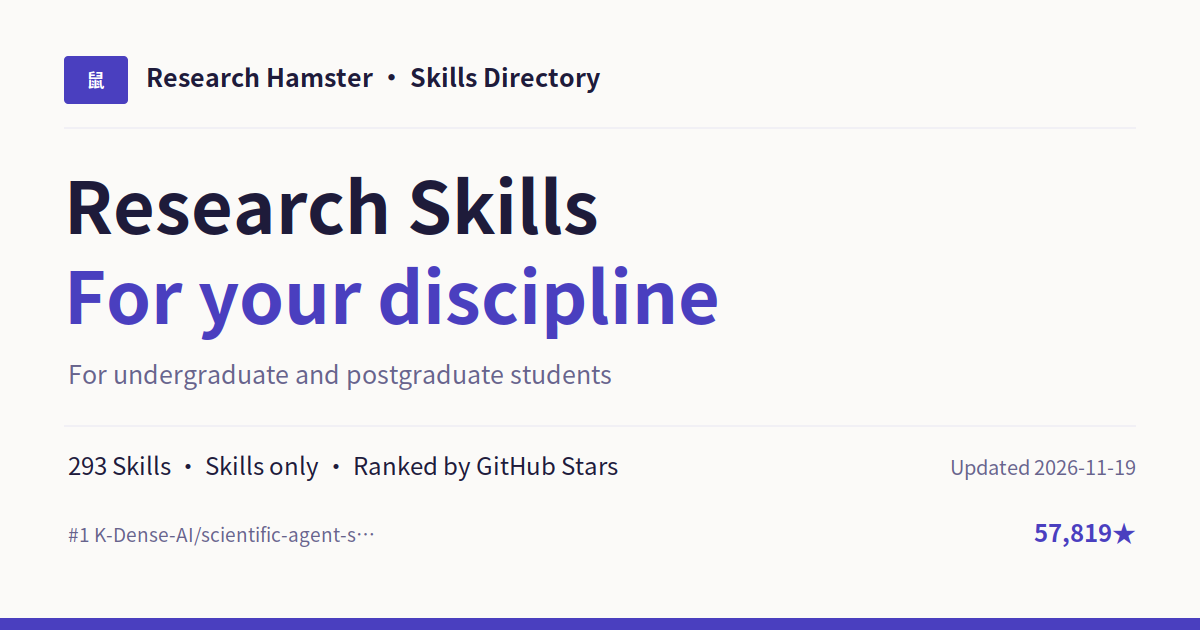
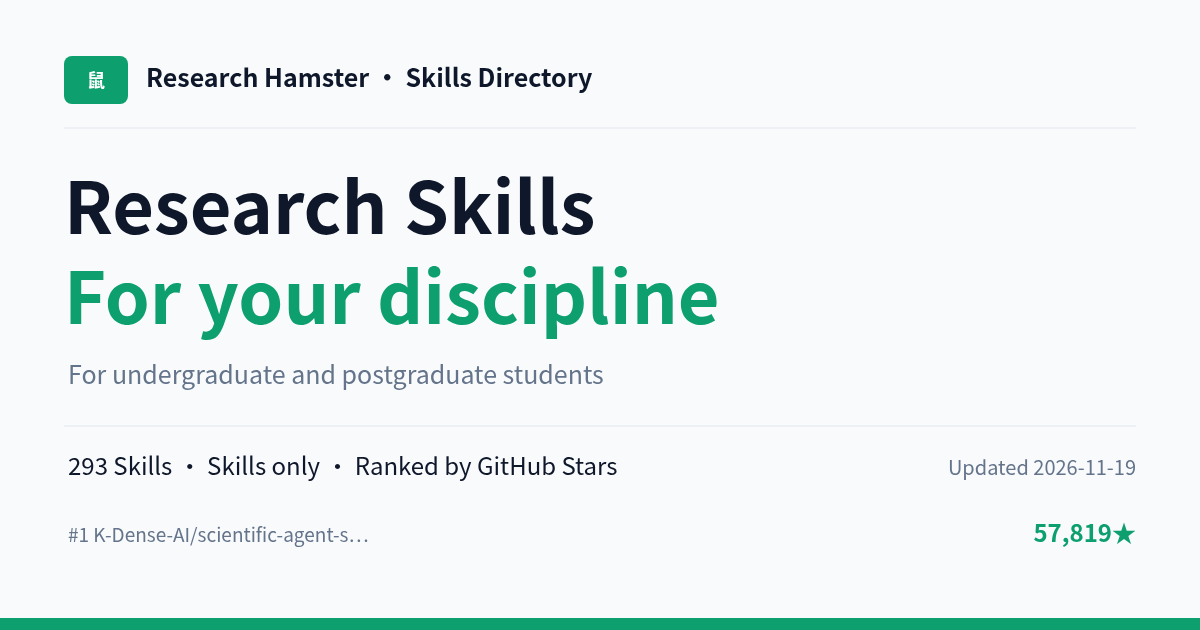
feat: update OG covers to emerald theme and sync RSS/reports branding and canonicals

diff --git a/reports/2026-07.html b/reports/2026-07.html
@@ -3,9 +3,9 @@
 <head>
 <meta charset="utf-8" />
 <meta name="viewport" content="width=device-width, initial-scale=1" />
-<title>2026-07 月度报告 · Awesome Paper Research Skills</title>
+<title>2026-07 月度报告 · 科研鼠鼠 · Skills 导航站</title>
 <link rel="stylesheet" href="../assets/styles.css" />
-<link rel="canonical" href="https://riceai88.github.io/shushu-research-skills/reports/2026-07.html" />
+<link rel="canonical" href="https://riceai985.cc/reports/2026-07.html" />
 </head>
 <body>
 <main style="max-width:960px;margin:0 auto;padding:32px 20px">

diff --git a/reports/2026-08.html b/reports/2026-08.html
@@ -3,9 +3,9 @@
 <head>
 <meta charset="utf-8" />
 <meta name="viewport" content="width=device-width, initial-scale=1" />
-<title>2026-08 月度报告 · Awesome Paper Research Skills</title>
+<title>2026-08 月度报告 · 科研鼠鼠 · Skills 导航站</title>
 <link rel="stylesheet" href="../assets/styles.css" />
-<link rel="canonical" href="https://riceai88.github.io/shushu-research-skills/reports/2026-08.html" />
+<link rel="canonical" href="https://riceai985.cc/reports/2026-08.html" />
 </head>
 <body>
 <main style="max-width:960px;margin:0 auto;padding:32px 20px">

diff --git a/reports/2026-09.html b/reports/2026-09.html
@@ -3,9 +3,9 @@
 <head>
 <meta charset="utf-8" />
 <meta name="viewport" content="width=device-width, initial-scale=1" />
-<title>2026-09 月度报告 · Awesome Paper Research Skills</title>
+<title>2026-09 月度报告 · 科研鼠鼠 · Skills 导航站</title>
 <link rel="stylesheet" href="../assets/styles.css" />
-<link rel="canonical" href="https://riceai88.github.io/shushu-research-skills/reports/2026-09.html" />
+<link rel="canonical" href="https://riceai985.cc/reports/2026-09.html" />
 </head>
 <body>
 <main style="max-width:960px;margin:0 auto;padding:32px 20px">

diff --git a/reports/2026-10.html b/reports/2026-10.html
@@ -3,9 +3,9 @@
 <head>
 <meta charset="utf-8" />
 <meta name="viewport" content="width=device-width, initial-scale=1" />
-<title>2026-10 月度报告 · Awesome Paper Research Skills</title>
+<title>2026-10 月度报告 · 科研鼠鼠 · Skills 导航站</title>
 <link rel="stylesheet" href="../assets/styles.css" />
-<link rel="canonical" href="https://riceai88.github.io/shushu-research-skills/reports/2026-10.html" />
+<link rel="canonical" href="https://riceai985.cc/reports/2026-10.html" />
 </head>
 <body>
 <main style="max-width:960px;margin:0 auto;padding:32px 20px">

diff --git a/reports/2026-11.html b/reports/2026-11.html
@@ -3,7 +3,7 @@
 <head>
 <meta charset="utf-8" />
 <meta name="viewport" content="width=device-width, initial-scale=1" />
-<title>2026-11 月度报告 · Awesome Paper Research Skills</title>
+<title>2026-11 月度报告 · 科研鼠鼠 · Skills 导航站</title>
 <link rel="stylesheet" href="../assets/styles.css" />
 <link rel="canonical" href="https://riceai985.cc/reports/2026-11.html" />
 </head>

diff --git a/reports/index.html b/reports/index.html
@@ -3,7 +3,7 @@
 <head>
 <meta charset="utf-8" />
 <meta name="viewport" content="width=device-width, initial-scale=1" />
-<title>月度报告 · Awesome Paper Research Skills</title>
+<title>月度报告 · 科研鼠鼠 · Skills 导航站</title>
 <link rel="stylesheet" href="../assets/styles.css" />
 <link rel="canonical" href="https://riceai985.cc/reports/" />
 </head>

diff --git a/scripts/update_rankings.py b/scripts/update_rankings.py
@@ -1544,7 +1544,7 @@ def render_month_report(
 <head>
 <meta charset="utf-8" />
 <meta name="viewport" content="width=device-width, initial-scale=1" />
-<title>{month} 月度报告 · Awesome Paper Research Skills</title>
+<title>{month} 月度报告 · 科研鼠鼠 · Skills 导航站</title>
 <link rel="stylesheet" href="../assets/styles.css" />
 <link rel="canonical" href="{SITE_URL}/reports/{month}.html" />
 </head>
@@ -1609,7 +1609,7 @@ def build_monthly_reports(history: dict[str, dict[str, dict[str, Any]]]) -> None
 <head>
 <meta charset="utf-8" />
 <meta name="viewport" content="width=device-width, initial-scale=1" />
-<title>月度报告 · Awesome Paper Research Skills</title>
+<title>月度报告 · 科研鼠鼠 · Skills 导航站</title>
 <link rel="stylesheet" href="../assets/styles.css" />
 <link rel="canonical" href="{SITE_URL}/reports/" />
 </head>
@@ -1707,7 +1707,7 @@ def render_feed(data: dict[str, Any], window_snapshot: dict[str, Any] | None = N
         '<?xml version="1.0" encoding="UTF-8"?>\n'
         '<rss version="2.0" xmlns:atom="http://www.w3.org/2005/Atom">\n'
         "  <channel>\n"
-        f"    <title>Awesome Paper Research Skills</title>\n"
+        f"    <title>科研鼠鼠 · Skills 导航站</title>\n"
         f"    <link>{SITE_URL}/</link>\n"
         "    <description>每日自动更新的学术论文与科研 Agent Skill 排行榜 · Daily ranking of academic research agent skills on GitHub</description>\n"
         f"    <language>{'zh-CN'}</language>\n"
@@ -1746,20 +1746,20 @@ def render_og_cover(data: dict[str, Any], lang: str = "zh") -> str:
     scope_label = "Skills only · Ranked by GitHub Stars" if lang == "en" else "仅统计 Skills · 按 GitHub Stars 排序"
     return f"""<?xml version="1.0" encoding="UTF-8"?>
 <svg xmlns="http://www.w3.org/2000/svg" width="1200" height="630" viewBox="0 0 1200 630">
-  <rect width="1200" height="630" fill="#FBFAF8"/>
-  <rect x="64" y="56" width="64" height="48" rx="4" fill="#4A3FBF"/>
+  <rect width="1200" height="630" fill="#F8FAFC"/>
+  <rect x="64" y="56" width="64" height="48" rx="8" fill="#0D9F6E"/>
   <text x="96" y="87" text-anchor="middle" font-family="{font}" font-size="18" font-weight="700" fill="#FFFFFF">鼠</text>
-  <text x="146" y="87" font-family="{font}" font-size="25" font-weight="600" fill="#1E1B3A">{brand}</text>
-  <line x1="64" y1="128" x2="1136" y2="128" stroke="#E7E5F2"/>
-  <text x="64" y="234" font-family="{font}" font-size="72" font-weight="700" fill="#1E1B3A">{title}</text>
-  <text x="64" y="324" font-family="{font}" font-size="72" font-weight="700" fill="#4A3FBF">{subtitle}</text>
-  <text x="68" y="384" font-family="{font}" font-size="25" fill="#67638C">{caption}</text>
-  <line x1="64" y1="426" x2="1136" y2="426" stroke="#E7E5F2"/>
-  <text x="68" y="475" font-family="{font}" font-size="24" fill="#1E1B3A">{count_label} · {scope_label}</text>
-  <text x="1136" y="475" text-anchor="end" font-family="{font}" font-size="20" fill="#67638C">Updated {generated}</text>
-  <text x="68" y="542" font-family="{font}" font-size="19" fill="#67638C">#1 {xml_escape(top_name)}</text>
-  <text x="1136" y="542" text-anchor="end" font-family="{font}" font-size="24" font-weight="600" fill="#4A3FBF">{xml_escape(top_stars)}</text>
-  <rect x="0" y="618" width="1200" height="12" fill="#4A3FBF"/>
+  <text x="146" y="87" font-family="{font}" font-size="25" font-weight="600" fill="#0F172A">{brand}</text>
+  <line x1="64" y1="128" x2="1136" y2="128" stroke="#E2E8F0"/>
+  <text x="64" y="234" font-family="{font}" font-size="72" font-weight="700" fill="#0F172A">{title}</text>
+  <text x="64" y="324" font-family="{font}" font-size="72" font-weight="700" fill="#0D9F6E">{subtitle}</text>
+  <text x="68" y="384" font-family="{font}" font-size="25" fill="#64748B">{caption}</text>
+  <line x1="64" y1="426" x2="1136" y2="426" stroke="#E2E8F0"/>
+  <text x="68" y="475" font-family="{font}" font-size="24" fill="#0F172A">{count_label} · {scope_label}</text>
+  <text x="1136" y="475" text-anchor="end" font-family="{font}" font-size="20" fill="#64748B">Updated {generated}</text>
+  <text x="68" y="542" font-family="{font}" font-size="19" fill="#64748B">#1 {xml_escape(top_name)}</text>
+  <text x="1136" y="542" text-anchor="end" font-family="{font}" font-size="24" font-weight="600" fill="#0D9F6E">{xml_escape(top_stars)}</text>
+  <rect x="0" y="618" width="1200" height="12" fill="#0D9F6E"/>
 </svg>
 """
 

diff --git a/tests/test_ranking.py b/tests/test_ranking.py
@@ -585,7 +585,8 @@ class SharingAssetsTest(unittest.TestCase):
         import xml.etree.ElementTree as ET
         data = {"items": [{"repo": "sample/a&b<tool>", "stars": 1234,"repository_kind":"skill"}], "metadata": {"generated_at": "2026-10-25"}}
         zh = render_og_cover(data)
-        self.assertIn("#4A3FBF", zh)
+        self.assertIn("#0D9F6E", zh)
+        self.assertNotIn("#4A3FBF", zh)
         self.assertNotIn("#691eff", zh)
         en = render_og_cover(data, lang="en")
         self.assertIn("For your discipline", en)
